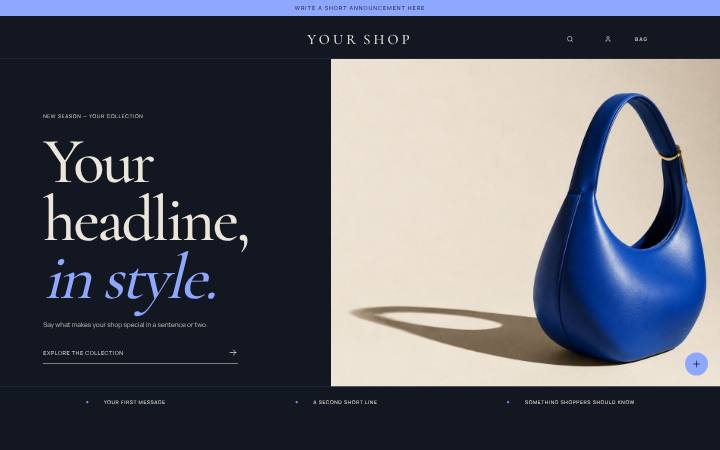
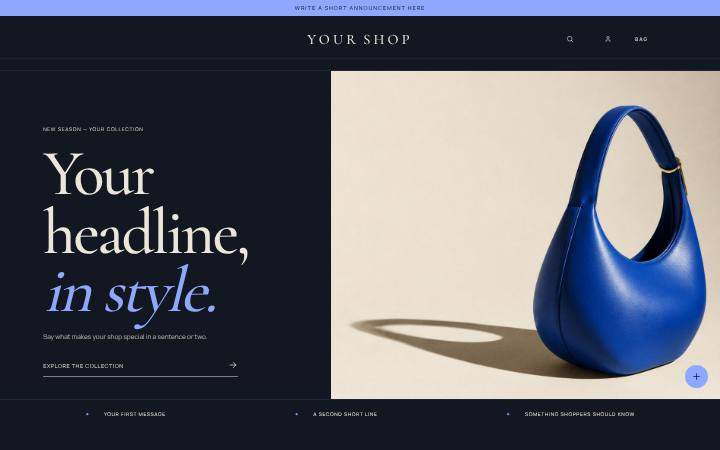
Frame designs, step 4: every starter gets its own frame, type and background
Each of the nine starters now sets its own header, product page, card, shop page, footer and bag design, its own
heading typeface (Salon, Workshop and Commission change type) and Catalogue, Salon and Workshop get their own
background colour. A new test fails when two starters share more than two of the eight parts. Every starter gets a
new version with a plain note, so shops on one are offered the update; thumbnails and blurbs refreshed.

Claude-Session: https://claude.ai/code/session_01VZ5popAbHGY6q1LBQdfN21

diff --git a/apps/shop/src/app/admin/studio/themeLibrary.ts b/apps/shop/src/app/admin/studio/themeLibrary.ts
@@ -702,7 +702,7 @@ export const THEME_LIBRARY = [
       },
       productBlocks: [{ type: "tag" }, { type: "heading" }, { type: "price" }, { type: "formats" }, { type: "buy" }, { type: "details" }],
     },
-    global: { themeStyle: "slowseason", logoPosition: "left", navCentred: true, navPlacement: "inline", navLinkTransform: "none", navLinkSize: 13, navLinkSpacing: 0, hideCurrencySelector: true, hideThemeToggle: true, hideHeaderWishlist: true, headerLayout: "modern", announcementScrolling: false, backgroundColor: "#f9f7f0", textColor: "#151613", primaryColor: "#bd5238", secondaryColor: "#f2eddf", surfaceColor: "#ede9de",
+    global: { themeStyle: "slowseason", logoPosition: "left", navCentred: true, navPlacement: "inline", navLinkTransform: "none", navLinkSize: 13, navLinkSpacing: 0, hideCurrencySelector: true, hideThemeToggle: true, hideHeaderWishlist: true, headerLayout: "modern", pdpLayout: "open", cardDesign: "caption", footerDesign: "line", announcementScrolling: false, backgroundColor: "#f9f7f0", textColor: "#151613", primaryColor: "#bd5238", secondaryColor: "#f2eddf", surfaceColor: "#ede9de",
       mutedTextColor: "#55564f", borderColor: "#d6d3ca", headingFont: "Syne", bodyFont: "DM Sans", headingWeight: 600, lineHeight: 1.6,
       buttonColor: "#151613", buttonTextColor: "#f9f7f0", buttonHoverBgColor: "#bd5238", buttonHoverTextColor: "#ffffff", buttonRadius: 0, buttonUppercase: true,
       headerBg: "#f9f7f0", headerColor: "#151613", footerBg: "#151613", footerTextColor: "#f9f7f0", footerHeadingColor: "#f9f7f0",
@@ -732,11 +732,11 @@ export const THEME_LIBRARY = [
       },
       productBlocks: [{ type: "tag" }, { type: "heading" }, { type: "price" }, { type: "formats" }, { type: "buy" }, { type: "details" }],
     },
-    global: { themeStyle: "catalogue", logoPosition: "left", navCentred: true, navPlacement: "inline", navLinkTransform: "none", navLinkSize: 13, navLinkSpacing: 0, hideCurrencySelector: true, hideThemeToggle: true, hideHeaderWishlist: true, headerLayout: "modern", announcementScrolling: false, backgroundColor: "#f2f0e8", textColor: "#161815", primaryColor: "#c4401f", secondaryColor: "#d8ff43", warningColor: "#e34f2a", surfaceColor: "#dfddd4",
+    global: { themeStyle: "catalogue", logoPosition: "left", navCentred: true, navPlacement: "inline", navLinkTransform: "none", navLinkSize: 13, navLinkSpacing: 0, hideCurrencySelector: true, hideThemeToggle: true, hideHeaderWishlist: true, headerLayout: "minimal", pdpLayout: "editorial", cardDesign: "numbered", shopPageLayout: "list", footerDesign: "contact", cartDrawerSide: "left", announcementScrolling: false, backgroundColor: "#e7e8e2", textColor: "#161815", primaryColor: "#c4401f", secondaryColor: "#d8ff43", warningColor: "#e34f2a", surfaceColor: "#dfddd4",
       mutedTextColor: "#55554f", borderColor: "#b9b8af", headingFont: "Newsreader", bodyFont: "Manrope", headingWeight: 400, lineHeight: 1.5,
-      buttonColor: "#161815", buttonTextColor: "#f2f0e8", buttonHoverBgColor: "#d8ff43", buttonHoverTextColor: "#161815", buttonRadius: 0, buttonUppercase: false,
-      headerBg: "#f2f0e8", headerColor: "#161815", footerBg: "#161815", footerTextColor: "#f2f0e8", footerHeadingColor: "#d8ff43", showAnnouncement: false,
-      cartDrawerBg: "#f2f0e8", cartDrawerText: "#161815", checkoutAccentColor: "#161815", checkoutBgColor: "#f2f0e8", linkColorHover: "#c4401f", navLinkActiveColor: "#161815",
+      buttonColor: "#161815", buttonTextColor: "#e7e8e2", buttonHoverBgColor: "#d8ff43", buttonHoverTextColor: "#161815", buttonRadius: 0, buttonUppercase: false,
+      headerBg: "#e7e8e2", headerColor: "#161815", footerBg: "#161815", footerTextColor: "#e7e8e2", footerHeadingColor: "#d8ff43", showAnnouncement: false,
+      cartDrawerBg: "#e7e8e2", cartDrawerText: "#161815", checkoutAccentColor: "#161815", checkoutBgColor: "#e7e8e2", linkColorHover: "#c4401f", navLinkActiveColor: "#161815",
       showCategoryChips: true, categoryChipShowCounts: true, showCatalogCount: true, catalogHeading: "The collection" } },
   { id: "aurel-editorial", name: "Aurel",
     mood: "Editorial and refined: a split opening with a big serif headline beside one hero photo, a quiet ticker, a cream product grid and a cobalt accent",
@@ -763,7 +763,7 @@ export const THEME_LIBRARY = [
       },
       productBlocks: [{ type: "tag" }, { type: "heading" }, { type: "price" }, { type: "formats" }, { type: "buy" }, { type: "details" }],
     },
-    global: { themeStyle: "aurel", logoPosition: "center", navAroundLogo: true, hideCurrencySelector: true, hideThemeToggle: true, hideHeaderWishlist: true, headerLayout: "modern", announcementScrolling: false, backgroundColor: "#f2eee6", textColor: "#0f1826", primaryColor: "#183dce", secondaryColor: "#e4ddd1", surfaceColor: "#e4ddd1",
+    global: { themeStyle: "aurel", logoPosition: "center", navAroundLogo: true, hideCurrencySelector: true, hideThemeToggle: true, hideHeaderWishlist: true, headerLayout: "centered", shopPageLayout: "staggered", footerDesign: "wordmark", cartDrawerSide: "full", announcementScrolling: false, backgroundColor: "#f2eee6", textColor: "#0f1826", primaryColor: "#183dce", secondaryColor: "#e4ddd1", surfaceColor: "#e4ddd1",
       mutedTextColor: "#4c5661", borderColor: "#c9c3b8", headingFont: "Cormorant Garamond", bodyFont: "Manrope", headingWeight: 500, lineHeight: 1.6,
       buttonColor: "#0f1826", buttonTextColor: "#f2eee6", buttonHoverBgColor: "#183dce", buttonHoverTextColor: "#ffffff", buttonRadius: 0, buttonUppercase: true,
       headerBg: "#f2eee6", headerColor: "#0f1826", footerBg: "#0f1826", footerTextColor: "#f2eee6", footerHeadingColor: "#f2eee6",
@@ -800,7 +800,7 @@ export const THEME_LIBRARY = [
       },
       productBlocks: [{ type: "heading" }, { type: "price" }, { type: "formats" }, { type: "buy" }, { type: "details" }],
     },
-    global: { themeStyle: "gallery", logoPosition: "center", navCentred: false, navPlacement: "inline", navLinkTransform: "none", navLinkSize: 14, hideCurrencySelector: true, hideThemeToggle: true, hideHeaderWishlist: true, headerLayout: "modern", announcementScrolling: false,
+    global: { themeStyle: "gallery", logoPosition: "center", navCentred: false, navPlacement: "inline", navLinkTransform: "none", navLinkSize: 14, hideCurrencySelector: true, hideThemeToggle: true, hideHeaderWishlist: true, headerLayout: "minimal", pdpLayout: "hero", cardDesign: "centred", shopPageLayout: "staggered", footerDesign: "centred", announcementScrolling: false,
       backgroundColor: "#f7f6f3", textColor: "#161616", primaryColor: "#7d5a3c", secondaryColor: "#ecebe6", surfaceColor: "#ecebe6", mutedTextColor: "#55534f", borderColor: "#d6d4ce",
       headingFont: "Instrument Serif", bodyFont: "Inter", headingWeight: 400, lineHeight: 1.6,
       buttonColor: "#161616", buttonTextColor: "#f7f6f3", buttonHoverBgColor: "#7d5a3c", buttonHoverTextColor: "#ffffff", buttonRadius: 0, buttonUppercase: false,
@@ -842,7 +842,7 @@ export const THEME_LIBRARY = [
       },
       productBlocks: [{ type: "tag" }, { type: "heading" }, { type: "price" }, { type: "formats" }, { type: "buy" }, { type: "details" }],
     },
-    global: { themeStyle: "warehouse", logoPosition: "left", navCentred: false, navPlacement: "inline", navLinkTransform: "uppercase", navLinkSize: 12, hideCurrencySelector: true, hideThemeToggle: true, headerLayout: "modern", announcementScrolling: false,
+    global: { themeStyle: "warehouse", logoPosition: "left", navCentred: false, navPlacement: "inline", navLinkTransform: "uppercase", navLinkSize: 12, hideCurrencySelector: true, hideThemeToggle: true, headerLayout: "classic", pdpLayout: "split", cardDesign: "framed", cartDrawerSide: "left", announcementScrolling: false,
       backgroundColor: "#f4f4f1", textColor: "#111111", primaryColor: "#d63f12", secondaryColor: "#ffe14a", surfaceColor: "#e7e7e2", mutedTextColor: "#4f4f4a", borderColor: "#c9c9c2",
       headingFont: "Archivo Black", bodyFont: "Archivo", headingWeight: 400, lineHeight: 1.5,
       buttonColor: "#111111", buttonTextColor: "#f4f4f1", buttonHoverBgColor: "#d63f12", buttonHoverTextColor: "#ffffff", buttonRadius: 0, buttonUppercase: true,
@@ -886,7 +886,7 @@ export const THEME_LIBRARY = [
       },
       productBlocks: [{ type: "heading" }, { type: "price" }, { type: "formats" }, { type: "buy" }, { type: "details" }],
     },
-    global: { themeStyle: "larder", logoPosition: "center", navAroundLogo: true, hideCurrencySelector: true, hideThemeToggle: true, hideHeaderWishlist: true, headerLayout: "modern", announcementScrolling: false,
+    global: { themeStyle: "larder", logoPosition: "center", navAroundLogo: true, hideCurrencySelector: true, hideThemeToggle: true, hideHeaderWishlist: true, headerLayout: "centered", pdpLayout: "editorial", cardDesign: "framed", footerDesign: "contact", announcementScrolling: false,
       backgroundColor: "#fbf5ea", textColor: "#2b1d14", primaryColor: "#a8401f", secondaryColor: "#f0c96b", surfaceColor: "#f1e6d2", mutedTextColor: "#5f4d40", borderColor: "#dfcfb6",
       headingFont: "DM Serif Display", bodyFont: "DM Sans", headingWeight: 400, lineHeight: 1.6,
       buttonColor: "#a8401f", buttonTextColor: "#ffffff", buttonHoverBgColor: "#2b1d14", buttonHoverTextColor: "#fbf5ea", buttonRadius: 999, buttonUppercase: false,
@@ -912,12 +912,12 @@ export const THEME_LIBRARY = [
       },
       productBlocks: [{ type: "heading" }, { type: "price" }, { type: "formats" }, { type: "buy" }, { type: "details" }],
     },
-    global: { themeStyle: "salon", logoPosition: "center", navAroundLogo: true, hideCurrencySelector: true, hideThemeToggle: true, hideHeaderWishlist: true, headerLayout: "modern", announcementScrolling: false,
-      backgroundColor: "#f6f1ec", textColor: "#2a2422", primaryColor: "#9b5a4e", secondaryColor: "#eadcd3", surfaceColor: "#ece2da", mutedTextColor: "#5e5450", borderColor: "#d8cbc2",
-      headingFont: "Cormorant Garamond", bodyFont: "Manrope", headingWeight: 500, lineHeight: 1.6,
-      buttonColor: "#2a2422", buttonTextColor: "#f6f1ec", buttonHoverBgColor: "#9b5a4e", buttonHoverTextColor: "#ffffff", buttonRadius: 999, buttonUppercase: false,
-      headerBg: "#f6f1ec", headerColor: "#2a2422", footerBg: "#2a2422", footerTextColor: "#f6f1ec", footerHeadingColor: "#eadcd3", showAnnouncement: false,
-      cartDrawerBg: "#f6f1ec", cartDrawerText: "#2a2422", checkoutAccentColor: "#9b5a4e", checkoutBgColor: "#f6f1ec", linkColorHover: "#9b5a4e", navLinkActiveColor: "#9b5a4e" } },
+    global: { themeStyle: "salon", logoPosition: "center", navAroundLogo: true, hideCurrencySelector: true, hideThemeToggle: true, hideHeaderWishlist: true, headerLayout: "rail", pdpLayout: "hero", cardDesign: "caption", footerDesign: "centred", cartDrawerSide: "full", announcementScrolling: false,
+      backgroundColor: "#f7e8e3", textColor: "#2a2422", primaryColor: "#874a3e", secondaryColor: "#eadcd3", surfaceColor: "#ece2da", mutedTextColor: "#5e5450", borderColor: "#d8cbc2",
+      headingFont: "Playfair Display", bodyFont: "Nunito", headingWeight: 500, lineHeight: 1.6,
+      buttonColor: "#2a2422", buttonTextColor: "#f7e8e3", buttonHoverBgColor: "#874a3e", buttonHoverTextColor: "#ffffff", buttonRadius: 999, buttonUppercase: false,
+      headerBg: "#f7e8e3", headerColor: "#2a2422", footerBg: "#2a2422", footerTextColor: "#f7e8e3", footerHeadingColor: "#eadcd3", showAnnouncement: false,
+      cartDrawerBg: "#f7e8e3", cartDrawerText: "#2a2422", checkoutAccentColor: "#874a3e", checkoutBgColor: "#f7e8e3", linkColorHover: "#874a3e", navLinkActiveColor: "#874a3e" } },
   { id: "starter-workshop", name: "Workshop",
     mood: "Bright and friendly for classes and workshops: a huge headline over a photo mosaic, the classes up next, what's included, who teaches and the questions people ask",
     palettePreset: "workshop", font: "Work Sans", buttonStyle: "solid", productCardStyle: "minimal", productHoverEffect: "lift", imageAspectRatio: "1:1",
@@ -952,12 +952,12 @@ export const THEME_LIBRARY = [
       },
       productBlocks: [{ type: "heading" }, { type: "price" }, { type: "formats" }, { type: "buy" }, { type: "details" }],
     },
-    global: { themeStyle: "workshop", logoPosition: "left", navCentred: false, navPlacement: "inline", navLinkTransform: "none", navLinkSize: 15, hideCurrencySelector: true, hideThemeToggle: true, hideHeaderWishlist: true, headerLayout: "modern", announcementScrolling: false,
-      backgroundColor: "#fff8ee", textColor: "#1d1b2e", primaryColor: "#d2471c", secondaryColor: "#ffd166", surfaceColor: "#fbeedb", mutedTextColor: "#4d4a5c", borderColor: "#eadcc6",
-      headingFont: "Syne", bodyFont: "Work Sans", headingWeight: 700, lineHeight: 1.6,
-      buttonColor: "#1d1b2e", buttonTextColor: "#fff8ee", buttonHoverBgColor: "#d2471c", buttonHoverTextColor: "#ffffff", buttonRadius: 999, buttonUppercase: false,
-      headerBg: "#fff8ee", headerColor: "#1d1b2e", footerBg: "#1d1b2e", footerTextColor: "#fff8ee", footerHeadingColor: "#ffd166", showAnnouncement: false,
-      cartDrawerBg: "#fff8ee", cartDrawerText: "#1d1b2e", checkoutAccentColor: "#d2471c", checkoutBgColor: "#fff8ee", linkColorHover: "#d2471c", navLinkActiveColor: "#1d1b2e" } },
+    global: { themeStyle: "workshop", logoPosition: "left", navCentred: false, navPlacement: "inline", navLinkTransform: "none", navLinkSize: 15, hideCurrencySelector: true, hideThemeToggle: true, hideHeaderWishlist: true, headerLayout: "modern", pdpLayout: "split", cardDesign: "centred", shopPageLayout: "list", footerDesign: "wordmark", cartDrawerSide: "full", announcementScrolling: false,
+      backgroundColor: "#fff1c7", textColor: "#1d1b2e", primaryColor: "#d2471c", secondaryColor: "#ffd166", surfaceColor: "#fbeedb", mutedTextColor: "#4d4a5c", borderColor: "#eadcc6",
+      headingFont: "Fredoka", bodyFont: "Work Sans", headingWeight: 700, lineHeight: 1.6,
+      buttonColor: "#1d1b2e", buttonTextColor: "#fff1c7", buttonHoverBgColor: "#d2471c", buttonHoverTextColor: "#ffffff", buttonRadius: 999, buttonUppercase: false,
+      headerBg: "#fff1c7", headerColor: "#1d1b2e", footerBg: "#1d1b2e", footerTextColor: "#fff1c7", footerHeadingColor: "#ffd166", showAnnouncement: false,
+      cartDrawerBg: "#fff1c7", cartDrawerText: "#1d1b2e", checkoutAccentColor: "#d2471c", checkoutBgColor: "#fff1c7", linkColorHover: "#d2471c", navLinkActiveColor: "#1d1b2e" } },
   { id: "starter-commission", name: "Commission",
     mood: "Made to order: a dark band with a photo beside your words, recent work shown large, how it works in three steps, pieces ready to order and an enquiry form",
     palettePreset: "commission", font: "Inter", buttonStyle: "solid", productCardStyle: "minimal", productHoverEffect: "zoom", imageAspectRatio: "4:5",
@@ -997,9 +997,9 @@ export const THEME_LIBRARY = [
       },
       productBlocks: [{ type: "heading" }, { type: "price" }, { type: "formats" }, { type: "buy" }, { type: "details" }],
     },
-    global: { themeStyle: "commission", logoPosition: "left", navCentred: true, navPlacement: "inline", navLinkTransform: "none", navLinkSize: 14, hideCurrencySelector: true, hideThemeToggle: true, hideHeaderWishlist: true, headerLayout: "modern", announcementScrolling: false,
+    global: { themeStyle: "commission", logoPosition: "left", navCentred: true, navPlacement: "inline", navLinkTransform: "none", navLinkSize: 14, hideCurrencySelector: true, hideThemeToggle: true, hideHeaderWishlist: true, headerLayout: "rail", pdpLayout: "open", cardDesign: "numbered", shopPageLayout: "staggered", footerDesign: "line", cartDrawerSide: "left", announcementScrolling: false,
       backgroundColor: "#f3efe8", textColor: "#1f1a14", primaryColor: "#7a4b2a", secondaryColor: "#d9cbb6", surfaceColor: "#e7e0d4", mutedTextColor: "#564d43", borderColor: "#cdc2b1",
-      headingFont: "Newsreader", bodyFont: "Inter", headingWeight: 400, lineHeight: 1.6,
+      headingFont: "Libre Baskerville", bodyFont: "Inter", headingWeight: 400, lineHeight: 1.6,
       buttonColor: "#1f1a14", buttonTextColor: "#f3efe8", buttonHoverBgColor: "#7a4b2a", buttonHoverTextColor: "#ffffff", buttonRadius: 0, buttonUppercase: false,
       headerBg: "#f3efe8", headerColor: "#1f1a14", footerBg: "#1f1a14", footerTextColor: "#f3efe8", footerHeadingColor: "#d9cbb6", showAnnouncement: false,
       cartDrawerBg: "#f3efe8", cartDrawerText: "#1f1a14", checkoutAccentColor: "#7a4b2a", checkoutBgColor: "#f3efe8", linkColorHover: "#7a4b2a", navLinkActiveColor: "#7a4b2a" } },

diff --git a/apps/shop/src/app/admin/studio/starterVersions.ts b/apps/shop/src/app/admin/studio/starterVersions.ts
@@ -19,43 +19,68 @@ export type StarterVersions = {
 
 export const STARTER_VERSIONS: Record<string, StarterVersions> = {
   "juniper-slow-season": {
-    releases: [{ version: 1, date: "2026-11-24", note: "The first version, in Terracotta, Sage and Night." }],
-    looks: { terracotta: "12cxxy7", sage: "19tuzg2", night: "ho5qw6" },
+    releases: [
+      { version: 1, date: "2026-11-24", note: "The first version, in Terracotta, Sage and Night." },
+      { version: 2, date: "2026-11-26", note: "A new frame: product pages open out across the page, a caption line under each product and a one-line footer." },
+    ],
+    looks: { terracotta: "jc620e", sage: "ag8gip", night: "12gkm51" },
   },
   "juniper-catalogue": {
-    releases: [{ version: 1, date: "2026-11-24", note: "The first version, in Acid, Blueprint and Night." }],
-    looks: { acid: "kjugmm", blueprint: "jc2v3a", night: "11me1vt" },
+    releases: [
+      { version: 1, date: "2026-11-24", note: "The first version, in Acid, Blueprint and Night." },
+      { version: 2, date: "2026-11-26", note: "A new frame: links behind a Menu button, numbered products, a list shop page, the title first on product pages and your email large in the footer, on cool grey paper." },
+    ],
+    looks: { acid: "gdf8mj", blueprint: "1inuvnu", night: "qjngtp" },
   },
   "aurel-editorial": {
-    releases: [{ version: 1, date: "2026-11-24", note: "The first version, in Cobalt, Sand and Night." }],
-    looks: { cobalt: "1e53ebw", sand: "1jgi7m0", night: "1itwz40" },
+    releases: [
+      { version: 1, date: "2026-11-24", note: "The first version, in Cobalt, Sand and Night." },
+      { version: 2, date: "2026-11-26", note: "A new frame: links in a row under your name, a staggered shop page, your name huge across the footer and a bag that fills the screen." },
+    ],
+    looks: { cobalt: "15c8s0r", sand: "1w6iyrb", night: "179sjxr" },
   },
   "starter-gallery": {
     releases: [
       { version: 1, date: "2026-11-25", note: "The first version, in Linen, Stone and Night." },
       { version: 2, date: "2026-11-26", note: "Your name now sits in the middle of the header, above a photo that fills the screen." },
+      { version: 3, date: "2026-11-26", note: "A new frame: links behind a Menu button, a big photo on top of each product page, centred product names, a staggered shop page and a centred footer." },
     ],
-    looks: { linen: "1x1ro7z", stone: "1yhk7nt", night: "1334736" },
+    looks: { linen: "uxwjhf", stone: "8232jx", night: "ai06py" },
   },
   "starter-warehouse": {
-    releases: [{ version: 1, date: "2026-11-25", note: "The first version, in Signal, Cobalt and Night." }],
-    looks: { signal: "1d5vrl", cobalt: "twfkp4", night: "17vz93f" },
+    releases: [
+      { version: 1, date: "2026-11-25", note: "The first version, in Signal, Cobalt and Night." },
+      { version: 2, date: "2026-11-26", note: "A new frame: a big masthead header, half-and-half product pages, framed products and a bag that opens from the left." },
+    ],
+    looks: { signal: "18xloh2", cobalt: "wjdjul", night: "1ehsfsw" },
   },
   "starter-larder": {
-    releases: [{ version: 1, date: "2026-11-25", note: "The first version, in Harvest, Olive and Night." }],
-    looks: { harvest: "fouwec", olive: "184v4kg", night: "1pey3xd" },
+    releases: [
+      { version: 1, date: "2026-11-25", note: "The first version, in Harvest, Olive and Night." },
+      { version: 2, date: "2026-11-26", note: "A new frame: links in a row under your name, the title first on product pages, framed products and your email large in the footer." },
+    ],
+    looks: { harvest: "1mw54g8", olive: "gih6xw", night: "1nn8r8l" },
   },
   "starter-salon": {
-    releases: [{ version: 1, date: "2026-11-25", note: "The first version, in Blush, Sage and Night." }],
-    looks: { blush: "2vsywz", sage: "1qe0ixp", night: "81pqk" },
+    releases: [
+      { version: 1, date: "2026-11-25", note: "The first version, in Blush, Sage and Night." },
+      { version: 2, date: "2026-11-26", note: "A new frame: a side menu on computers, a big photo on product pages, a centred footer, new type and a blush background." },
+    ],
+    looks: { blush: "ywxb1h", sage: "1npmds2", night: "1u79fip" },
   },
   "starter-workshop": {
-    releases: [{ version: 1, date: "2026-11-25", note: "The first version, in Sunny, Mint and Night." }],
-    looks: { sunny: "sztiw6", mint: "xuzb8y", night: "2rdqgg" },
+    releases: [
+      { version: 1, date: "2026-11-25", note: "The first version, in Sunny, Mint and Night." },
+      { version: 2, date: "2026-11-26", note: "A new frame: half-and-half product pages, centred product names, a list shop page, your name huge in the footer, new type and a sunny background." },
+    ],
+    looks: { sunny: "158ym2", mint: "1rj76ra", night: "1gmivo4" },
   },
   "starter-commission": {
-    releases: [{ version: 1, date: "2026-11-25", note: "The first version, in Walnut, Chalk and Night." }],
-    looks: { walnut: "1vv80ze", chalk: "w4fysz", night: "13451kh" },
+    releases: [
+      { version: 1, date: "2026-11-25", note: "The first version, in Walnut, Chalk and Night." },
+      { version: 2, date: "2026-11-26", note: "A new frame: a side menu on computers, open product pages, numbered work, a staggered shop page, a one-line footer and new type." },
+    ],
+    looks: { walnut: "qq10jg", chalk: "1eiva9h", night: "4zfioj" },
   },
 };
 

diff --git a/control-room/starterSites.js b/control-room/starterSites.js
@@ -31,15 +31,15 @@ import { PLANS } from "../setup/steps.js";
 
 /** The shop's starters, in the shop's own order (lookGallery.ts STARTER_SITES), with the names it shows. */
 export const STARTERS = Object.freeze([
-  { id: "juniper-slow-season", name: "Slow Season", version: 1, styles: [{ id: "terracotta", name: "Terracotta" }, { id: "sage", name: "Sage" }, { id: "night", name: "Night" }] },
-  { id: "juniper-catalogue", name: "Catalogue", version: 1, styles: [{ id: "acid", name: "Acid" }, { id: "blueprint", name: "Blueprint" }, { id: "night", name: "Night" }] },
-  { id: "aurel-editorial", name: "Aurel", version: 1, styles: [{ id: "cobalt", name: "Cobalt" }, { id: "sand", name: "Sand" }, { id: "night", name: "Night" }] },
-  { id: "starter-gallery", name: "Gallery", version: 2, styles: [{ id: "linen", name: "Linen" }, { id: "stone", name: "Stone" }, { id: "night", name: "Night" }] },
-  { id: "starter-warehouse", name: "Warehouse", version: 1, styles: [{ id: "signal", name: "Signal" }, { id: "cobalt", name: "Cobalt" }, { id: "night", name: "Night" }] },
-  { id: "starter-larder", name: "Larder", version: 1, styles: [{ id: "harvest", name: "Harvest" }, { id: "olive", name: "Olive" }, { id: "night", name: "Night" }] },
-  { id: "starter-salon", name: "Salon", version: 1, styles: [{ id: "blush", name: "Blush" }, { id: "sage", name: "Sage" }, { id: "night", name: "Night" }] },
-  { id: "starter-workshop", name: "Workshop", version: 1, styles: [{ id: "sunny", name: "Sunny" }, { id: "mint", name: "Mint" }, { id: "night", name: "Night" }] },
-  { id: "starter-commission", name: "Commission", version: 1, styles: [{ id: "walnut", name: "Walnut" }, { id: "chalk", name: "Chalk" }, { id: "night", name: "Night" }] },
+  { id: "juniper-slow-season", name: "Slow Season", version: 2, styles: [{ id: "terracotta", name: "Terracotta" }, { id: "sage", name: "Sage" }, { id: "night", name: "Night" }] },
+  { id: "juniper-catalogue", name: "Catalogue", version: 2, styles: [{ id: "acid", name: "Acid" }, { id: "blueprint", name: "Blueprint" }, { id: "night", name: "Night" }] },
+  { id: "aurel-editorial", name: "Aurel", version: 2, styles: [{ id: "cobalt", name: "Cobalt" }, { id: "sand", name: "Sand" }, { id: "night", name: "Night" }] },
+  { id: "starter-gallery", name: "Gallery", version: 3, styles: [{ id: "linen", name: "Linen" }, { id: "stone", name: "Stone" }, { id: "night", name: "Night" }] },
+  { id: "starter-warehouse", name: "Warehouse", version: 2, styles: [{ id: "signal", name: "Signal" }, { id: "cobalt", name: "Cobalt" }, { id: "night", name: "Night" }] },
+  { id: "starter-larder", name: "Larder", version: 2, styles: [{ id: "harvest", name: "Harvest" }, { id: "olive", name: "Olive" }, { id: "night", name: "Night" }] },
+  { id: "starter-salon", name: "Salon", version: 2, styles: [{ id: "blush", name: "Blush" }, { id: "sage", name: "Sage" }, { id: "night", name: "Night" }] },
+  { id: "starter-workshop", name: "Workshop", version: 2, styles: [{ id: "sunny", name: "Sunny" }, { id: "mint", name: "Mint" }, { id: "night", name: "Night" }] },
+  { id: "starter-commission", name: "Commission", version: 2, styles: [{ id: "walnut", name: "Walnut" }, { id: "chalk", name: "Chalk" }, { id: "night", name: "Night" }] },
 ]);
 /**
  * Starters added in round three (25 November 2026) wait for the owner's yes: with no saved record they show as

diff --git a/apps/shop/src/app/admin/studio/starterStyles.ts b/apps/shop/src/app/admin/studio/starterStyles.ts
@@ -78,7 +78,7 @@ export const STARTER_STYLES: Record<string, StarterStyle[]> = {
       } },
   ],
   "juniper-catalogue": [
-    { id: "acid", name: "Acid", swatches: ["#f2f0e8", "#161815", "#d8ff43"], feels: ["bold"] },
+    { id: "acid", name: "Acid", swatches: ["#e7e8e2", "#161815", "#d8ff43"], feels: ["bold"] },
     { id: "blueprint", name: "Blueprint", swatches: ["#eef1f6", "#10182b", "#2a4fd6"], feels: ["classic", "calm"],
       global: { ...palette({ bg: "#eef1f6", text: "#10182b", accent: "#2a4fd6", second: "#9fe3ff", surface: "#dde3ee", muted: "#4d566a",
         border: "#b3bccc", button: "#10182b", buttonText: "#eef1f6", hover: "#9fe3ff", hoverText: "#10182b", footer: "#10182b",
@@ -121,7 +121,7 @@ export const STARTER_STYLES: Record<string, StarterStyle[]> = {
       sections: { NewsletterSection: { colorSchemeId: "scheme-default" } } },
   ],
   "starter-salon": [
-    { id: "blush", name: "Blush", swatches: ["#f6f1ec", "#2a2422", "#9b5a4e"], feels: ["calm", "classic"] },
+    { id: "blush", name: "Blush", swatches: ["#f7e8e3", "#2a2422", "#874a3e"], feels: ["calm", "classic"] },
     { id: "sage", name: "Sage", swatches: ["#eff2ec", "#1f2620", "#56705a"], feels: ["calm"],
       global: { ...palette({ bg: "#eff2ec", text: "#1f2620", accent: "#56705a", second: "#dbe3d6", surface: "#e1e7dc", muted: "#4f5850", border: "#c8d1c3", button: "#1f2620", buttonText: "#eff2ec", hover: "#56705a", hoverText: "#ffffff", footer: "#1f2620", footerText: "#eff2ec", footerHeading: "#dbe3d6", checkout: "#56705a" }),
         navLinkActiveColor: "#56705a" } },
@@ -130,7 +130,7 @@ export const STARTER_STYLES: Record<string, StarterStyle[]> = {
         navLinkActiveColor: "#f1eaf0" } },
   ],
   "starter-workshop": [
-    { id: "sunny", name: "Sunny", swatches: ["#fff8ee", "#1d1b2e", "#d2471c"], feels: ["bold"] },
+    { id: "sunny", name: "Sunny", swatches: ["#fff1c7", "#1d1b2e", "#d2471c"], feels: ["bold"] },
     { id: "mint", name: "Mint", swatches: ["#f0f7f2", "#13241c", "#1f7a52"], feels: ["calm", "classic"],
       global: { ...palette({ bg: "#f0f7f2", text: "#13241c", accent: "#1f7a52", second: "#ffd166", surface: "#e0eee5", muted: "#44564c", border: "#c6dccd", button: "#13241c", buttonText: "#f0f7f2", hover: "#1f7a52", hoverText: "#ffffff", footer: "#13241c", footerText: "#f0f7f2", footerHeading: "#ffd166", checkout: "#1f7a52" }),
         navLinkActiveColor: "#1f7a52" } },

diff --git a/apps/shop/src/app/admin/studio/starterFrames.test.ts b/apps/shop/src/app/admin/studio/starterFrames.test.ts
@@ -1,0 +1,48 @@
+// Every starter must look different from every other on every page, not just in colour (frame designs plan,
+// 26 November 2026). A starter's look is eight parts: header, product page, product cards, shop page, footer, bag,
+// type and background. Any two starters may share at most two of them, and no two share a heading typeface.
+// Adding a starter: give it a mix no other starter has (docs/agent-notes/studio.md › Frame designs).
+import { describe, expect, it } from "vitest";
+import { THEME_LIBRARY } from "./themeLibrary";
+import { STARTER_SITES } from "../lookGallery";
+
+const starters = STARTER_SITES.map(id => (THEME_LIBRARY as any[]).find(t => t.id === id));
+const parts = (t: any) => {
+  const g = t.global || {};
+  return {
+    header: g.headerLayout || "",
+    productPage: g.pdpLayout || "",
+    cards: g.cardDesign || "",
+    shopPage: g.shopPageLayout || "",
+    footer: g.footerDesign || "",
+    bag: g.cartDrawerSide || "right",
+    type: `${g.headingFont}/${g.bodyFont}`,
+    background: String(g.backgroundColor || "").toLowerCase(),
+  };
+};
+
+describe("starters look different from each other", () => {
+  it("finds every starter", () => {
+    starters.forEach((t, i) => expect(t, STARTER_SITES[i]).toBeTruthy());
+  });
+  it("any two starters share at most two of the eight parts", () => {
+    const clashes: string[] = [];
+    starters.forEach((a, i) => starters.slice(i + 1).forEach(b => {
+      const pa = parts(a), pb = parts(b);
+      const same = (Object.keys(pa) as (keyof typeof pa)[]).filter(k => pa[k] === pb[k]);
+      if (same.length > 2) clashes.push(`${a.id} and ${b.id} share ${same.join(", ")}`);
+    }));
+    expect(clashes).toEqual([]);
+  });
+  it("no two starters share a heading typeface", () => {
+    const fonts = starters.map(t => t.global.headingFont);
+    expect(new Set(fonts).size).toBe(fonts.length);
+  });
+  it("every starter picks its own frame, not the default one", () => {
+    starters.forEach(t => {
+      const p = parts(t);
+      const chosen = [p.productPage, p.cards, p.shopPage, p.footer].filter(Boolean).length + (p.bag !== "right" ? 1 : 0);
+      expect(chosen, t.id).toBeGreaterThanOrEqual(2);
+    });
+  });
+});

diff --git a/apps/shop/src/app/admin/websiteChoice.ts b/apps/shop/src/app/admin/websiteChoice.ts
@@ -11,15 +11,15 @@ import type { SavedTheme } from "./studio/savedThemes";
 
 /** One line per starter, what it is like and who it suits, in plain words. */
 export const STARTER_BLURB: Record<string, string> = {
-  "aurel-editorial": "A big serif headline beside one large photo. Made for clothing and design objects.",
+  "aurel-editorial": "A big serif headline, a staggered shop and your name huge in the footer. Made for clothing and design objects.",
   "juniper-slow-season": "A full photo in bold capitals, then calm colour bands. Made for seasonal collections.",
-  "juniper-catalogue": "A numbered catalogue with a running line. Made for books, prints and small ranges.",
+  "juniper-catalogue": "A numbered catalogue, a list shop page and a Menu button. Made for books, prints and small ranges.",
   "starter-gallery": "A photo that fills the screen and products shown large. Made for makers with a few pieces.",
-  "starter-warehouse": "Big moving words, categories first and a dense grid. Made for a big range.",
+  "starter-warehouse": "A big masthead, moving words and framed products in a dense grid. Made for a big range.",
   "starter-larder": "A warm photo banner, a running line and quick add. Made for food and drink.",
-  "starter-salon": "Words on a soft colour band, then your prices and team. Made for appointments.",
+  "starter-salon": "A side menu, a soft blush page and your prices up front. Made for appointments.",
   "starter-workshop": "A giant headline, a photo mosaic and class times. Made for classes and workshops.",
-  "starter-commission": "A dark band, past work shown large and an enquiry form. Made for work made to order.",
+  "starter-commission": "A side menu, past work shown large and an enquiry form. Made for work made to order.",
 };
 
 /** Which kinds of shop each starter was made for, best first. The rest suit products and both. */

diff --git a/apps/shop/docs/agent-notes/studio.md b/apps/shop/docs/agent-notes/studio.md
@@ -1057,3 +1057,22 @@ The preview takes most of the screen. Nothing was removed; each thing moved to w
   centred banner, Salon words on a colour band, Workshop giant headline + photo mosaic, Commission dark band. Keep a new
   starter's opening different from all of these.
 - A service whose lowest price is 0 shows Free, never "From $0.00".
+
+## Frame designs (26 November 2026, frame designs plan)
+
+Starters used to differ only in their home page: every one shared the header, product page, product card, shop page,
+footer and bag. Each of those parts now has named designs, each a Studio choice whose empty value keeps today's look:
+- Header & announcement bar › Header layout: adds **rail** (side menu on computers, `RAIL_HEADER_CSS` in `headerLayout.ts`;
+  phones draw it like modern; `headerOffset.ts` returns 0 for it).
+- Footer layout › Footer design (`footerDesign`, `footerStyle.ts`): wordmark (the name huge, `giantNameSize`), line,
+  centred, contact (email and address large first).
+- Product page › Page layout › Product page design (`pdpLayout`, `productPageStyle.ts`): open, hero, editorial, split.
+  CSS keys on `[data-pdp-layout]` on BookDetail's grid (`.fm-pdp-grid/.fm-pdp-photos/.fm-pdp-info`).
+- Products › Grid & columns › Card design (`cardDesign`: framed, caption, centred, numbered; numbered counts per
+  `section`) and Shop page layout (`shopPageLayout`: list, staggered, on MainSite's `.fm-shop-grid`), both in `cardTypography.ts`.
+- Bag › Slides in from: **full** (rises from the bottom and fills the screen, `data-bag-full`).
+
+Each starter sets its own mix in its `global` (themeLibrary.ts), with its own heading typeface and background.
+`starterFrames.test.ts` fails when two starters share more than two of the eight parts (header, product page, cards,
+shop page, footer, bag, type, background), share a heading typeface, or a starter keeps the default frame. A new
+starter picks a mix no other has (see `add-a-starter.md`).

diff --git a/apps/shop/docs/agent-notes/add-a-starter.md b/apps/shop/docs/agent-notes/add-a-starter.md
@@ -77,3 +77,8 @@ Aurel Night). Shops see them as swatches on the starter's card in Studio › The
   - a services shop (`&sells=hair`)
 - Fix every difference, then show the owner the real screenshots.
 - Once the owner says yes, open Control room › Shops › Setting up › Starter websites, tick Show (and Mark New) and save.
+
+## Pick its own frame (26 November 2026)
+Give the new starter's `global` a header layout, product page design, card design, shop page layout, footer design and
+bag side that, with its heading typeface and background, share at most two parts with any other starter.
+`starterFrames.test.ts` checks it; see Frame designs in `studio.md`.
